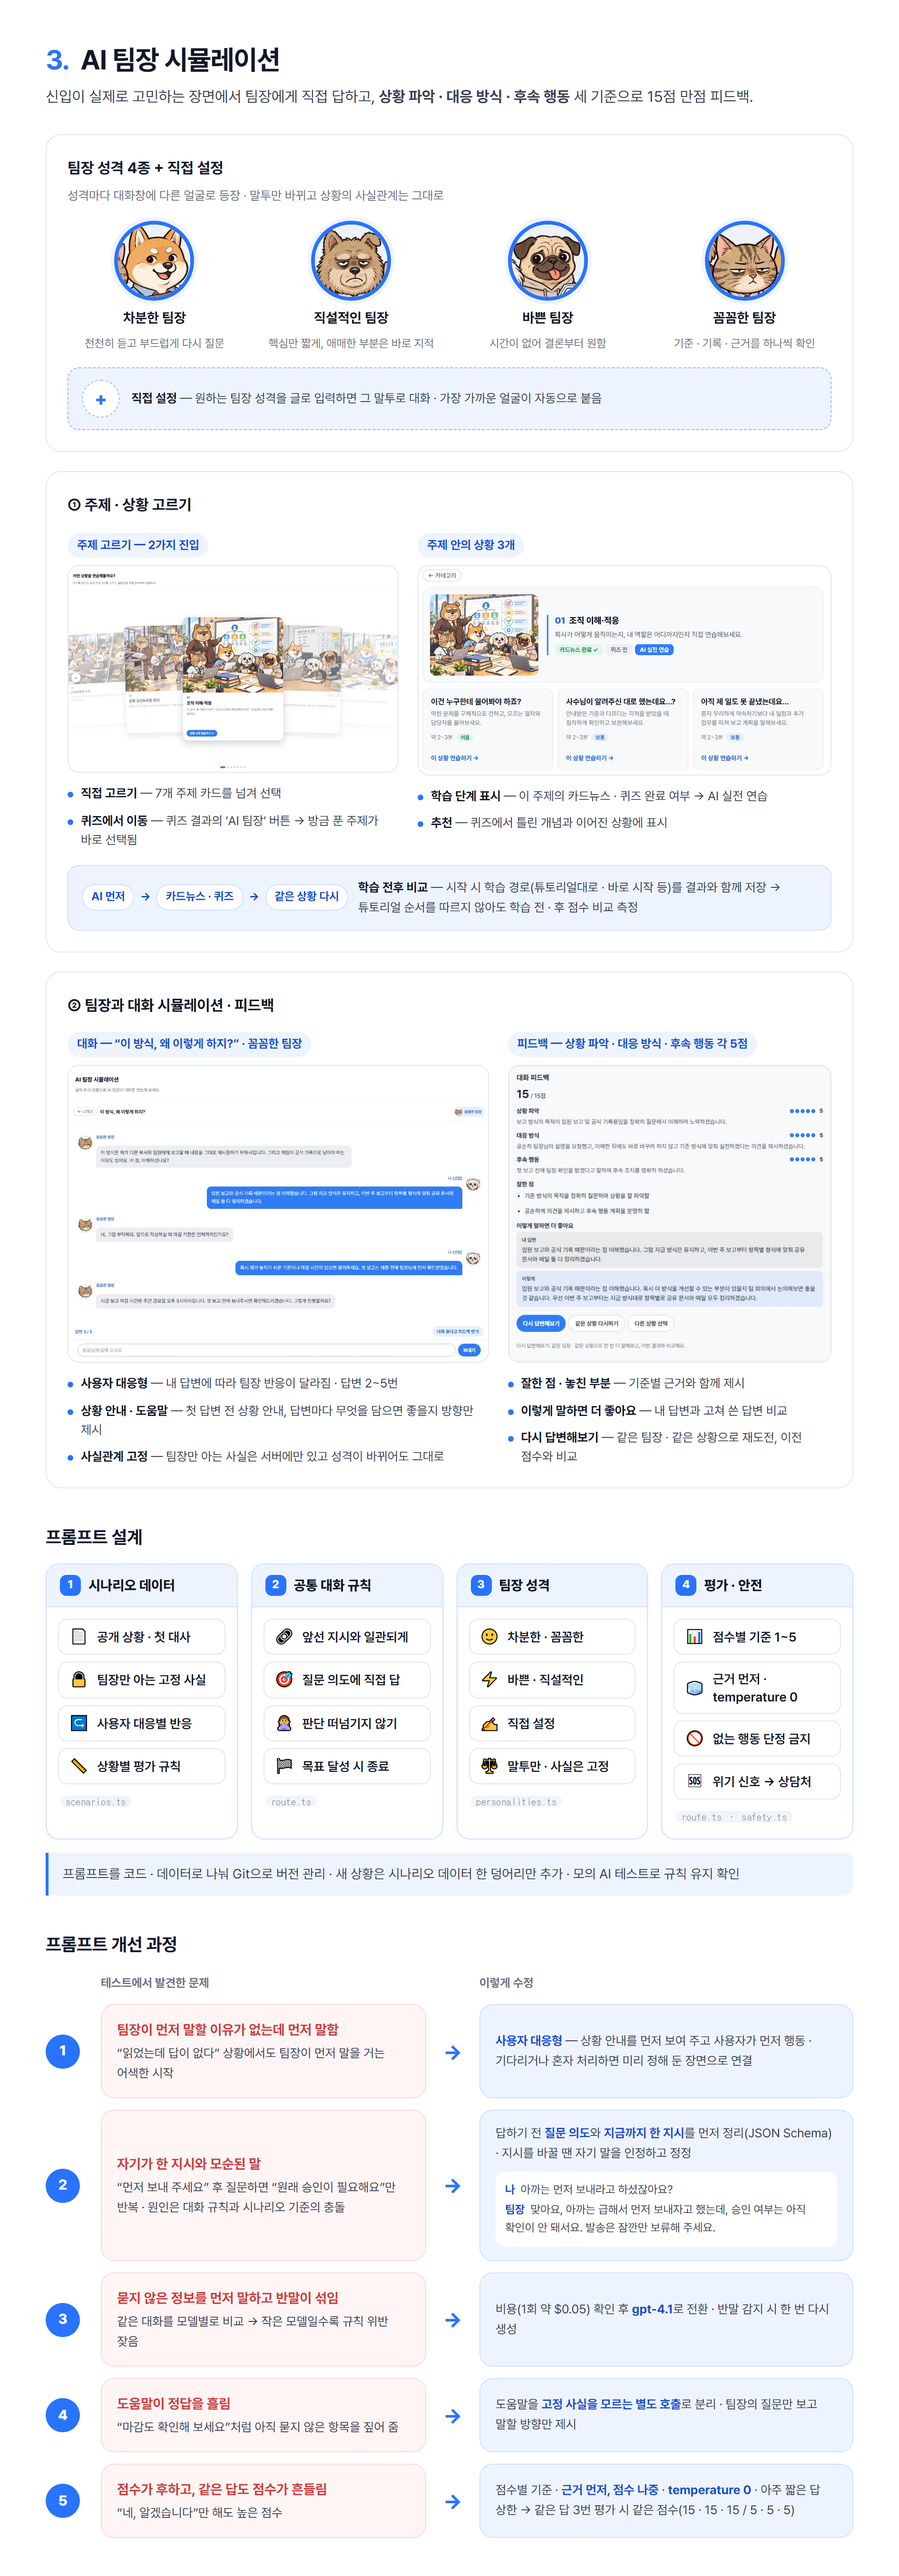
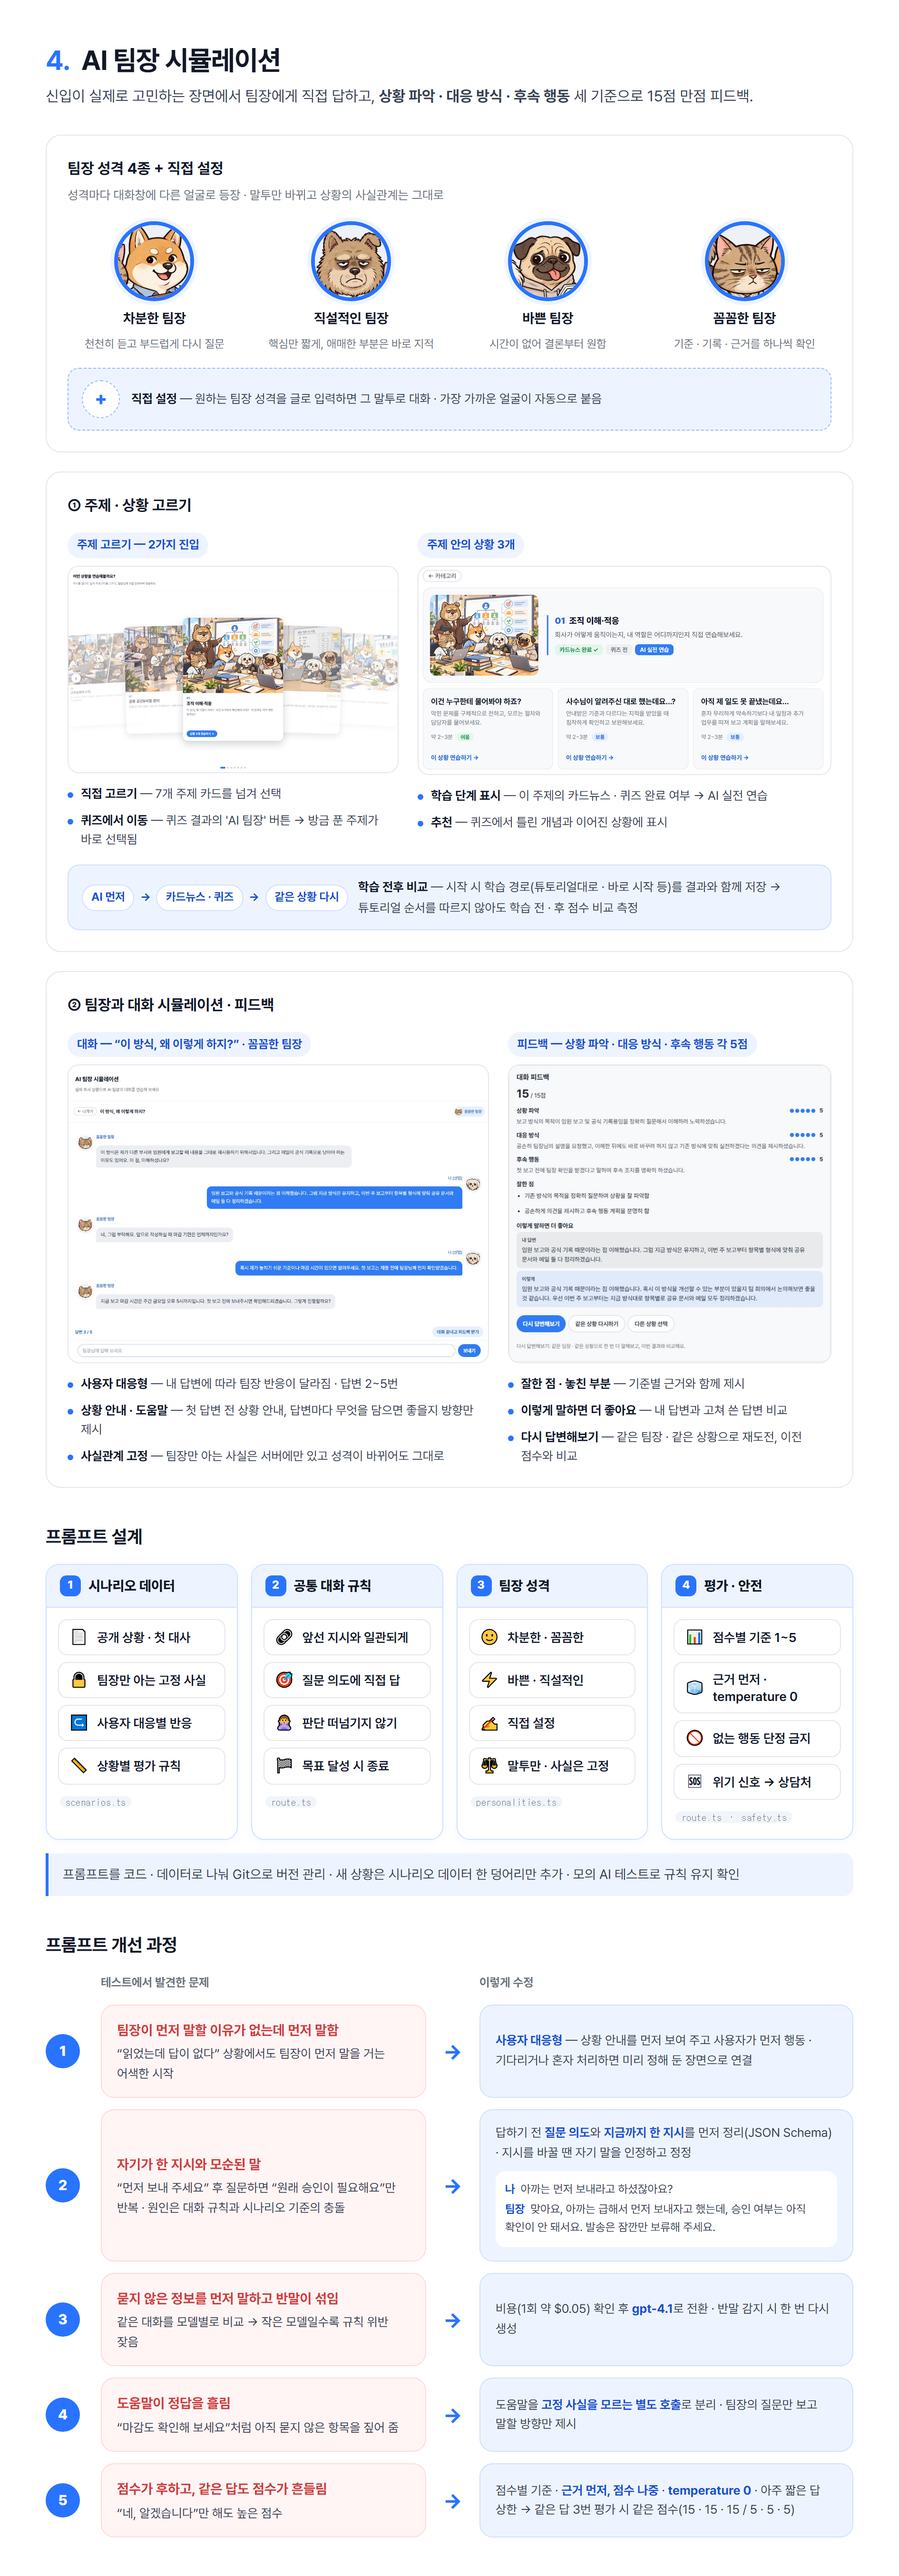
README: 내 작업 중심 재구성 — UI/UX 설계 · SOS 상담 섹션 추가, 핵심 기능 · 학습 흐름 섹션 정리

diff --git a/README.md b/README.md
@@ -7,7 +7,7 @@
 <table>
   <tr><th align="left" width="130">기간</th><td>2026.09.28 – 11.09</td></tr>
   <tr><th align="left">팀</th><td>4명 · 팀 프로젝트</td></tr>
-  <tr><th align="left">내 역할</th><td><b>조장</b> · 서비스 기획 · AI 기능 기획 · UX 설계</td></tr>
+  <tr><th align="left">내 역할</th><td><b>조장</b> · 서비스 기획 · UI/UX 설계 · SOS 상담 · AI 팀장 시뮬레이션</td></tr>
   <tr><th align="left">과정</th><td>동아일보 부트캠프 [미디어 프론티어] 생성형 AI 마스터 클래스</td></tr>
   <tr><th align="left">기술</th><td>Next.js · React · TypeScript · Supabase · OpenAI API · Gemini · Vercel</td></tr>
   <tr><th align="left">링크</th><td><a href="https://genz-project-one.vercel.app">서비스 바로가기 ↗</a> · <a href="https://github.com/genz-pyoryugi/genz-project">팀 저장소 (전체 코드) ↗</a></td></tr>
@@ -19,7 +19,7 @@
 
 <table>
   <tr><th align="left" width="90">기획</th><td><a href="#s1">1. 기획 및 비전</a> — 문제 정의 · 개발 타임라인</td></tr>
-  <tr><th align="left">기능</th><td><a href="#s2">2. 핵심 기능 (튜토리얼 → 카드뉴스 → 퀴즈 → AI 팀장)</a> · <a href="#s3">3. AI 팀장 시뮬레이션</a> · <a href="#s4">4. 학습 기능 · 성장 기록</a></td></tr>
+  <tr><th align="left">내 작업</th><td><a href="#s2">2. UI/UX 설계 (인트로 · 사무실 · 아웃트로)</a> · <a href="#s3">3. SOS 상담</a> · <a href="#s4">4. AI 팀장 시뮬레이션</a></td></tr>
   <tr><th align="left">설계</th><td><a href="#s5">5. 서비스 설계</a> · <a href="#s6">6. 작동 구조</a> · <a href="#s7">7. 데이터베이스(ERD)</a></td></tr>
   <tr><th align="left">개발</th><td><a href="#s8">8. 기술 스택 · 의사결정</a> · <a href="#s9">9. 프로젝트 구조</a></td></tr>
   <tr><th align="left">검증</th><td><a href="#s10">10. 피드백 반영</a> · <a href="#s11">11. 사용자 테스트 결과</a></td></tr>
@@ -38,50 +38,25 @@
 
 <a name="s2"></a>
 
-## 2. 핵심 기능
+![2. UI/UX 설계 — 인트로 · 사무실 · 첫 방문 안내](docs/sections/ux.png)
 
-**튜토리얼 → 학습 → 이해 → 실전 연습**
+**④ 퇴근길 아웃트로** — 사무실을 나서면 인사 → 스크롤하면 오늘의 성장 기록
 
-<table>
-  <tr>
-    <td width="50%" valign="top"><img src="docs/screens/tutorial.jpg" width="100%" alt="튜토리얼"><br><b>0 · 튜토리얼</b><br><sub>걱정되는 주제를 고르면 카드뉴스 → 퀴즈 → AI 팀장 순서로 안내</sub></td>
-    <td width="50%" valign="top"><img src="docs/screens/cardnews.jpg" width="100%" alt="카드뉴스 · 학습 전후 체크"><br><b>1 · 카드뉴스 · 학습 전후 체크</b><br><sub>읽기 전과 후에 이해도를 스스로 체크해 변화 확인</sub></td>
-  </tr>
-  <tr>
-    <td width="50%" valign="top"><img src="docs/screens/quiz.jpg" width="100%" alt="퀴즈 · 오답 다시 풀기"><br><b>2 · 퀴즈 · 오답 다시 풀기</b><br><sub>상황별 문제와 해설, 틀린 문제만 골라 다시 풀기</sub></td>
-    <td width="50%" valign="top"><img src="docs/screens/ai.jpg" width="100%" alt="AI 팀장 피드백"><br><b>3 · AI 팀장 피드백</b><br><sub>팀장에게 직접 답하고 3가지 기준 · 15점 만점 피드백</sub></td>
-  </tr>
-</table>
+<p align="center"><img src="docs/screens/outro.gif" width="70%" alt="퇴근길 아웃트로 영상"></p>
 
-**부가 콘텐츠** — 같은 주제를 다양하게
-
-<table>
-  <tr>
-    <td width="20%" valign="top"><img src="docs/screens/sos.jpg" width="100%" alt="SOS 상담"><br><sub><b>SOS 상담</b></sub></td>
-    <td width="20%" valign="top"><img src="docs/screens/radio.jpg" width="100%" alt="보이는 라디오"><br><sub><b>보이는 라디오</b></sub></td>
-    <td width="20%" valign="top"><img src="docs/screens/community.jpg" width="100%" alt="고민상담소"><br><sub><b>고민상담소</b></sub></td>
-    <td width="20%" valign="top"><img src="docs/screens/calendar.jpg" width="100%" alt="근태 가이드"><br><sub><b>근태 가이드</b></sub></td>
-    <td width="20%" valign="top"><img src="docs/screens/checklist.jpg" width="100%" alt="체크리스트"><br><sub><b>체크리스트</b></sub></td>
-  </tr>
-</table>
+![오늘의 성장 기록](docs/sections/uxout.png)
 
 ---
 
 <a name="s3"></a>
 
-![3. AI 팀장 시뮬레이션 — 프롬프트 설계 · 개선 과정](docs/sections/ai.png)
+![3. SOS 상담](docs/sections/sos.png)
 
 ---
 
 <a name="s4"></a>
 
-![4. 학습 기능 · 성장 기록](docs/sections/learning.png)
-
-**퇴근길 아웃트로** — 사무실을 나서면 인사 → 스크롤하면 오늘의 성장 기록
-
-<p align="center"><img src="docs/screens/outro.gif" width="70%" alt="퇴근길 아웃트로 영상"></p>
-
-![오늘의 성장 기록 · 학습 기록이 이어지는 흐름](docs/sections/learning-growth.png)
+![4. AI 팀장 시뮬레이션 — 프롬프트 설계 · 개선 과정](docs/sections/ai.png)
 
 ---
 
@@ -133,8 +108,8 @@
 
 | 역할 | 담당 |
 |---|---|
-| **현정현 · 조장** | 서비스 기획 · AI 기능 기획 · UX 설계 — 서비스 방향 · 핵심 기능 기획, 7개 카테고리 콘텐츠 구조 설계, AI 팀장 시뮬레이션 설계, 기능 우선순위 조율 · 협업 리딩 |
-| 팀원 · 백엔드 · 데이터 | 퀴즈 · 체크리스트 · 근태 가이드, SOS 상담 API · 학습 기록, Supabase · 서버 API · RLS |
+| **현정현 · 조장** | 서비스 기획 · UI/UX 설계 · AI 기능 — 서비스 방향 · 7개 카테고리 콘텐츠 구조 설계, 인트로 · 사무실 · 튜토리얼 · 아웃트로 화면 흐름, SOS 상담(기획 · 화면 · 사무실 연동 · 프롬프트 · 안전 처리), AI 팀장 시뮬레이션 설계 · 구현, 기능 우선순위 조율 · 협업 리딩 |
+| 팀원 · 백엔드 · 데이터 | 퀴즈 · 체크리스트 · 근태 가이드, SOS 상담 API · 대화 저장 · 학습 기록, Supabase · 서버 API · RLS |
 | 팀원 · 커뮤니티 · 라디오 | 고민상담소, 입력 유효성 검사 · 신고, 보이는 라디오(AI 대본 · 음성) |
 | 팀원 · 콘텐츠 | 카드뉴스 제작, 기사 · 공식 PDF 조사, 학습 전후 체크 → 퀴즈 흐름 설계 |
 
